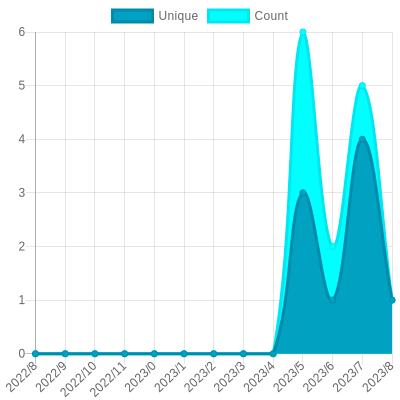
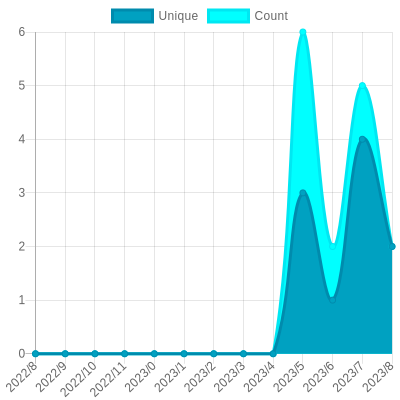
Update views

Changed region(s): [[0.87, 0.27, 0.99, 0.75], [0.9, 0.21, 0.93, 0.27], [0.84, 0.51, 0.87, 0.54]]

diff --git a/readme/501328809/year.md b/readme/501328809/year.md
@@ -23,10 +23,10 @@
 			<code>2022/9/1</code>
 		</td>
 		<td>
-			<code>1</code>
+			<code>2</code>
 		</td>
 		<td>
-			<code>1</code>
+			<code>2</code>
 		</td>
 	</tr>
 	<tr>
@@ -164,7 +164,7 @@
 </table>
 
 </details>
-<small><i>Last updated on 2022/9/13 2:36 AM UTC</i></small>
+<small><i>Last updated on 2022/9/13 6:59 AM UTC</i></small>
 
 ## ✂Copy and 📋 Paste
 ### SVG Badge

diff --git a/README.md b/README.md
@@ -197,7 +197,7 @@ The project created and maintained by [gayanvoice](https://github.com/gayanvoice
 	</tr>
 </table>
 
-<small><i>Last updated on 2022/9/13 2:37 AM UTC</i></small>
+<small><i>Last updated on 2022/9/13 7:00 AM UTC</i></small>
 
 ## ✂Copy and 📋 Paste
 ### Total Views Badge

diff --git a/readme/414278021/year.md b/readme/414278021/year.md
@@ -164,7 +164,7 @@
 </table>
 
 </details>
-<small><i>Last updated on 2022/9/13 2:37 AM UTC</i></small>
+<small><i>Last updated on 2022/9/13 6:59 AM UTC</i></small>
 
 ## ✂Copy and 📋 Paste
 ### SVG Badge

diff --git a/readme/442212745/year.md b/readme/442212745/year.md
@@ -164,7 +164,7 @@
 </table>
 
 </details>
-<small><i>Last updated on 2022/9/13 2:36 AM UTC</i></small>
+<small><i>Last updated on 2022/9/13 6:58 AM UTC</i></small>
 
 ## ✂Copy and 📋 Paste
 ### SVG Badge

diff --git a/readme/450966880/year.md b/readme/450966880/year.md
@@ -164,7 +164,7 @@
 </table>
 
 </details>
-<small><i>Last updated on 2022/9/13 2:37 AM UTC</i></small>
+<small><i>Last updated on 2022/9/13 7:00 AM UTC</i></small>
 
 ## ✂Copy and 📋 Paste
 ### SVG Badge

diff --git a/readme/452449349/year.md b/readme/452449349/year.md
@@ -164,7 +164,7 @@
 </table>
 
 </details>
-<small><i>Last updated on 2022/9/13 2:36 AM UTC</i></small>
+<small><i>Last updated on 2022/9/13 6:59 AM UTC</i></small>
 
 ## ✂Copy and 📋 Paste
 ### SVG Badge

diff --git a/readme/453407069/year.md b/readme/453407069/year.md
@@ -164,7 +164,7 @@
 </table>
 
 </details>
-<small><i>Last updated on 2022/9/13 2:36 AM UTC</i></small>
+<small><i>Last updated on 2022/9/13 6:59 AM UTC</i></small>
 
 ## ✂Copy and 📋 Paste
 ### SVG Badge

diff --git a/readme/489458791/year.md b/readme/489458791/year.md
@@ -164,7 +164,7 @@
 </table>
 
 </details>
-<small><i>Last updated on 2022/9/13 2:37 AM UTC</i></small>
+<small><i>Last updated on 2022/9/13 7:00 AM UTC</i></small>
 
 ## ✂Copy and 📋 Paste
 ### SVG Badge

diff --git a/readme/497300739/year.md b/readme/497300739/year.md
@@ -164,7 +164,7 @@
 </table>
 
 </details>
-<small><i>Last updated on 2022/9/13 2:37 AM UTC</i></small>
+<small><i>Last updated on 2022/9/13 6:59 AM UTC</i></small>
 
 ## ✂Copy and 📋 Paste
 ### SVG Badge

diff --git a/readme/498286965/year.md b/readme/498286965/year.md
@@ -164,7 +164,7 @@
 </table>
 
 </details>
-<small><i>Last updated on 2022/9/13 2:36 AM UTC</i></small>
+<small><i>Last updated on 2022/9/13 6:58 AM UTC</i></small>
 
 ## ✂Copy and 📋 Paste
 ### SVG Badge

diff --git a/readme/501347697/year.md b/readme/501347697/year.md
@@ -164,7 +164,7 @@
 </table>
 
 </details>
-<small><i>Last updated on 2022/9/13 2:37 AM UTC</i></small>
+<small><i>Last updated on 2022/9/13 6:59 AM UTC</i></small>
 
 ## ✂Copy and 📋 Paste
 ### SVG Badge

diff --git a/readme/501375327/year.md b/readme/501375327/year.md
@@ -164,7 +164,7 @@
 </table>
 
 </details>
-<small><i>Last updated on 2022/9/13 2:37 AM UTC</i></small>
+<small><i>Last updated on 2022/9/13 6:59 AM UTC</i></small>
 
 ## ✂Copy and 📋 Paste
 ### SVG Badge
